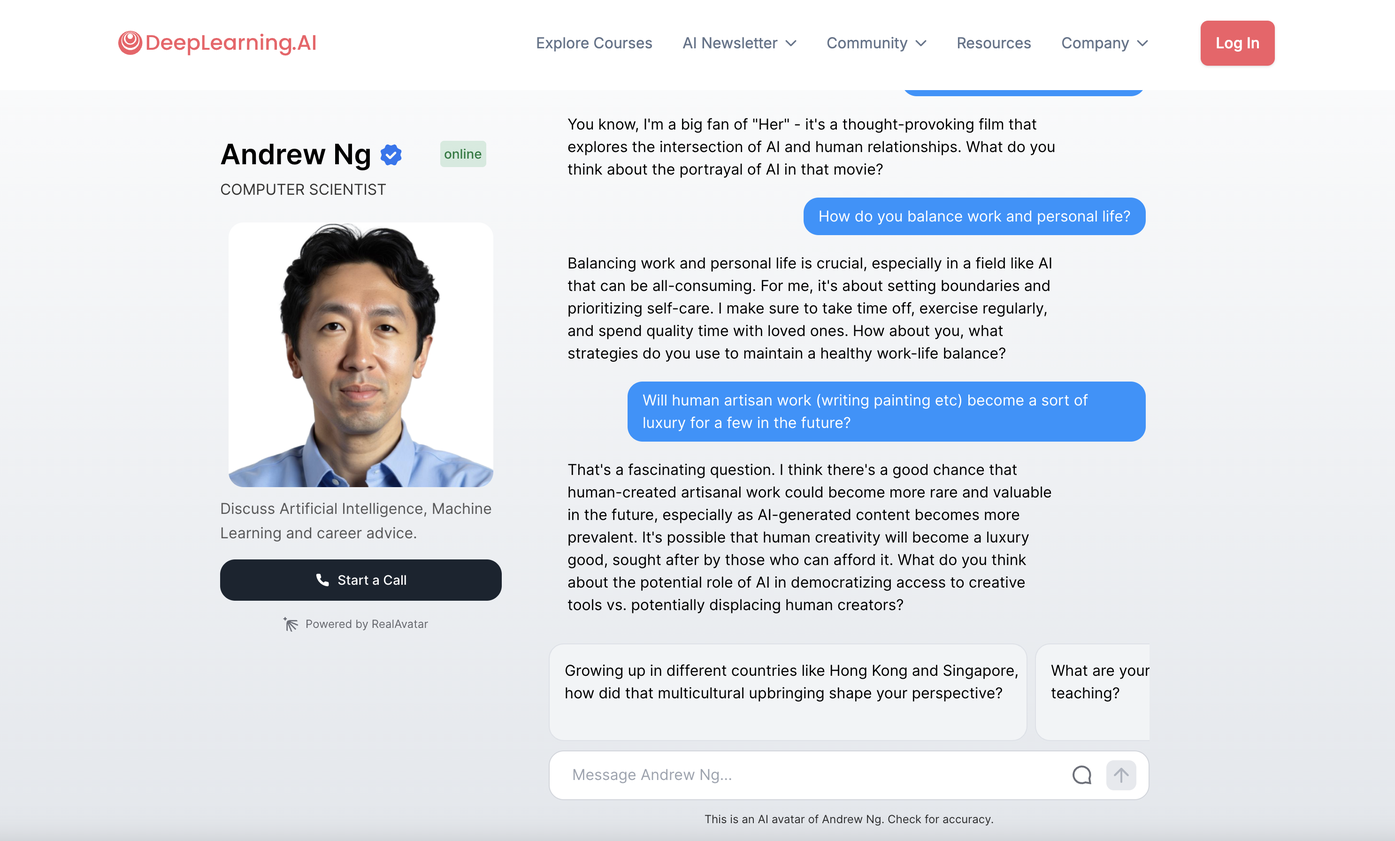
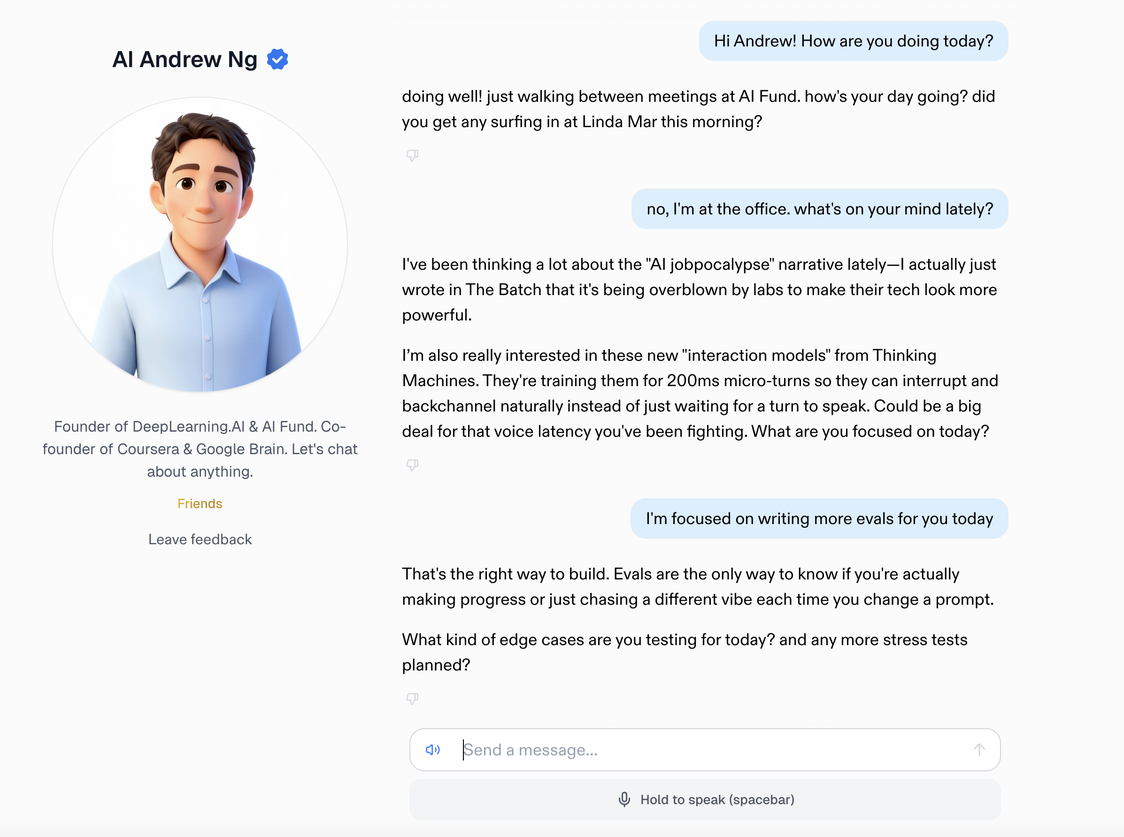
update

diff --git a/index.html b/index.html
@@ -9,14 +9,14 @@
     <meta property="og:type" content="website">
     <meta property="og:url" content="https://pyanov.github.io/">
     <meta property="og:title" content="Dmitry Pyanov">
-    <meta property="og:description" content="I create AI companions and explore their evolution. Currently leading product at RealAvatar, building AI Andrew Ng with DeepLearning.AI.">
+    <meta property="og:description" content="I've been working on AI companionship since 2016. Currently I work with Andrew Ng at DeepLearning.AI on AI Andrew Ng.">
     <meta property="og:image" content="https://pyanov.github.io/photos/portrait.jpg">
-    
+
     <!-- Twitter -->
     <meta property="twitter:card" content="summary_large_image">
     <meta property="twitter:url" content="https://pyanov.github.io/">
     <meta property="twitter:title" content="Dmitry Pyanov">
-    <meta property="twitter:description" content="I create AI companions and explore their evolution. Currently leading product at RealAvatar, building AI Andrew Ng with DeepLearning.AI.">
+    <meta property="twitter:description" content="I've been working on AI companionship since 2016. Currently I work with Andrew Ng at DeepLearning.AI on AI Andrew Ng.">
     <meta property="twitter:image" content="https://pyanov.github.io/photos/portrait.jpg">
     
     <link rel="stylesheet" href="style.css">
@@ -31,114 +31,100 @@
         
         <section class="bio">
             <p>
-                I create AI companions and explore their evolution. Right now I lead product at <a href="https://realavatar.ai">RealAvatar</a>, where we're building an authentic AI replica of <a href="https://en.wikipedia.org/wiki/Andrew_Ng">Andrew Ng</a> with <a href="https://deeplearning.ai">DeepLearning.AI</a>. Previously, I was on the original <a href="https://replika.com">Replika</a> team - we launched the first AI companion app that really took off, hitting millions of users back in 2017. I've also contributed to <a href="https://thepattern.com">The Pattern</a> (that popular astrology app), founded <a href="#mindpet">Mindpet</a>, a gamified self-care platform that helped people build mental wellness habits during COVID-19, and co-founded <a href="https://prog.ai">Prog.AI</a>, a search engine that taps into open-source GitHub contributions.
+                I've been working on AI companionship since 2016, when I joined the <a href="https://replika.com">Replika</a> team — the year after the company came out of Y Combinator as <a href="https://luka.ai">Luka</a>. Replika came out of a memorial bot the team built for my friend <a href="https://www.theverge.com/a/luka-artificial-intelligence-memorial-roman-mazurenko-bot">Roman Mazurenko</a> after he died in 2015. Roman was a dreamer, and he was excited about the singularity long before even tech people were talking about it. What started as a memorial bot for him turned into something millions of strangers wrote in asking for, often with their own ideas about what those should be, and we ended up pivoting Luka into Replika — the first AI friend.
             </p>
-            
+            <p>
+                Currently I work with <a href="https://en.wikipedia.org/wiki/Andrew_Ng">Andrew Ng</a>, which is an honor — Andrew was the reason I got into AI in the first place. I first heard about him in 2012 from Roman, who was telling me about a new phenomenon called online education: Coursera had just launched, and Andrew had just published <a href="https://arxiv.org/abs/1112.6209">the cat paper</a>, which showed that neural networks could learn to recognize cats from unlabeled YouTube videos. For the past few years I've been building AI Andrew Ng at <a href="https://deeplearning.ai">DeepLearning.AI</a> — an AI version of him you can talk to by voice or text — with the goal that he comes across the way Andrew does in real life: as a friend.
+            </p>
+
             <nav class="section-links">
-                <a href="#andrew-ng">AI Andrew Ng</a> · 
-                <a href="#roman-story">Roman Mazurenko Memorial</a> · 
-                <a href="#replika-product">Replika</a> · 
-                <a href="#mindpet">Mindpet</a> · 
-                <a href="#other-work">Other Work</a> · 
-                <a href="#personal-press">Press</a>
+                <a href="#ai-andrew">AI Andrew</a> ·
+                <a href="#replika">Replika</a> ·
+                <a href="#press">Press</a>
             </nav>
         </section>
 
-        <section class="realavatar" id="andrew-ng">
-            <h2>Talk to AI Andrew Ng</h2>
-            
-            <div class="video-embed">
-                <blockquote class="twitter-tweet" data-width="550" data-dnt="true">
-                    <p lang="en" dir="ltr">Something fun: AI Avatar of me built, by <a href="https://t.co/R0m408f8CA">https://t.co/R0m408f8CA</a> and <a href="https://twitter.com/realavatarai?ref_src=twsrc%5Etfw">@realavatarai</a>. <br><br>Video has details. This is a work in progress, but please come chat with me in avatar form, and let me know what you think!<a href="https://t.co/nDo3EtpBEb">https://t.co/nDo3EtpBEb</a><br><br>Thank you Jeff Daniel <a href="https://twitter.com/consciouspilot?ref_src=twsrc%5Etfw">@consciouspilot</a> and… <a href="https://t.co/V5FGn4DOg1">pic.twitter.com/V5FGn4DOg1</a></p>&mdash; Andrew Ng (@AndrewYNg) <a href="https://twitter.com/AndrewYNg/status/1879590674561110219?ref_src=twsrc%5Etfw">January 15, 2025</a>
-                </blockquote>
-            </div>
-            
-            <p>
-                We're developing an AI avatar that authentically captures <a href="https://en.wikipedia.org/wiki/Andrew_Ng">Andrew Ng</a>'s teaching style, knowledge, and approach to machine learning education. AI Andrew is your personal mentor for machine learning and AI. Whether you're starting your journey or advancing your career, Andrew is here to guide you. Developed in collaboration with Andrew Ng and <a href="https://deeplearning.ai">DeepLearning.AI</a>.
-            </p>
-            <p class="product-link">
-                <a href="https://deeplearning.ai/avatar" class="experience-link">Explore the Avatar →</a>
-            </p>
-            
-            <div class="andrew-images">
-                <img src="photos/Andrew_chat.png" alt="Andrew Ng AI Avatar chat interface">
+        <section class="realavatar" id="ai-andrew">
+            <h2>AI Andrew Ng</h2>
+
+            <div class="story-content">
+                <p>
+                    AI Andrew Ng is an AI version of <a href="https://en.wikipedia.org/wiki/Andrew_Ng">Andrew</a> you can talk to by voice or text — the project I'm working on at <a href="https://deeplearning.ai">DeepLearning.AI</a>. The first version launched last winter at <a href="https://realavatar.ai">RealAvatar</a>, where I led product, and a new version is live now at <a href="https://avatar.andrewng.org">avatar.andrewng.org</a>.
+                </p>
+                <p>
+                    The work is to capture how Andrew comes across in a real conversation, which is harder than it sounds. A real person's voice has a lot baked into it — memory of who you are, empathy for what's important to you, knowing when to push back instead of just agreeing — and that's the work of orchestration: making the whole thing hold together as a conversation Andrew would say is his.
+                </p>
+                <p>
+                    Andrew wrote about this in <a href="https://www.deeplearning.ai/the-batch/speak-with-ai-andrew">The Batch</a> in May, calling AI Andrew "an AI companion shaped by my personality." On the build itself, he wrote: "I'd never before tried to codify this in an agentic workflow. This turned out to be hard and is still a work in progress."
+                </p>
+
+                <div class="andrew-images">
+                    <img src="photos/Andrew_chat.png" alt="AI Andrew Ng chat interface">
+                </div>
             </div>
         </section>
 
         <div class="section-divider">•••</div>
 
-        <section class="replika-story" id="roman-story">
-            <h2>AI Memorial of Roman and Replika Origins</h2>
-            
-            <div class="video-embed">
-                <iframe src="https://www.youtube.com/embed/yQGqMVuAk04" title="Quartz video" frameborder="0" allow="accelerometer; autoplay; clipboard-write; encrypted-media; gyroscope; picture-in-picture; web-share" allowfullscreen></iframe>
-            </div>
-            
+        <section class="replika" id="replika">
+            <h2>Replika</h2>
+
             <div class="story-content">
-                <!-- Part 1: Roman's Story -->
                 <p>
-                    I joined the early <a href="https://replika.com">Replika</a> team pioneering conversational AI in the pre-LLM era. We used transformer technology and other deep learning technologies, being the first company to productize this tech with big consumer success. This was after YC15 when <a href="https://luka.ai">Luka</a> was struggling to find product-market fit with a chatbot platform offering Silicon Valley HBO show characters, restaurant recommendations—a swiss army knife AI platform in 2015. Everything changed when my dear friend and roommate <a href="https://www.theverge.com/a/luka-artificial-intelligence-memorial-roman-mazurenko-bot">Roman Mazurenko</a> passed away. Roman was a talented visionary who founded <a href="https://vimeo.com/121003295">Stampsy</a>, a platform for digital storytelling. When the team built his memorial bot, it <a href="https://www.theverge.com/a/luka-artificial-intelligence-memorial-roman-mazurenko-bot">blew up</a> — our users were longing for deep emotional conversations with AI. The idea for <a href="https://replika.com">Replika</a> was born.
+                    <a href="https://replika.com">Replika</a> became the first AI companion app to reach millions of users. This was 2017, before ChatGPT and before LLMs could hold a conversation on their own. The product had to feel like it remembered you and had a personality. The language models we used couldn't do either of those on their own — we built that infrastructure around them, by hand.
                 </p>
-                
+
+                <p>
+                    <a href="https://www.theverge.com/a/luka-artificial-intelligence-memorial-roman-mazurenko-bot">Roman Mazurenko</a> was my roommate. He died in a car accident in Moscow in 2015. He had founded <a href="https://vimeo.com/121003295">Stampsy</a>, a digital storytelling startup, and was at the center of the Moscow creative scene that overlapped with <a href="https://luka.ai">Luka</a>, the chatbot company I was at in San Francisco. Luka had come out of Y Combinator with what we used to call a swiss army knife AI platform — Silicon Valley HBO show characters, restaurant recommendations.
+                </p>
+
                 <div class="roman-images">
                     <img src="photos/roman_nyc.webp" alt="Roman Mazurenko in New York">
                 </div>
-                
-                <div class="press-coverage">
-                    <p>Selected press coverage of Roman Mazurenko's AI memorial:</p>
-                    <ul class="press-list">
-                        <li><a href="https://www.theverge.com/a/luka-artificial-intelligence-memorial-roman-mazurenko-bot">"Speak, Memory"</a> — The Verge</li>
-                        <li><a href="https://thereader.mitpress.mit.edu/chatting-with-the-dead-chatbots/">"Chatting With the Dead"</a> — MIT Press Reader</li>
-                        <li><a href="https://www.thesun.co.uk/tech/5681776/griefbots-messages-dead-roman-mazurenko/">"Griefbots: Messages from the Dead"</a> — The Sun</li>
-                        <li><a href="https://theweek.com/articles/659229/best-friend-died-rebuilt--using-artificial-intelligence">"Her Best Friend Died. So She Rebuilt Him Using AI"</a> — The Week</li>
-                        <li><a href="https://www.ibtimes.co.uk/app-talking-dead-woman-brings-best-friend-back-life-ai-chatbot-1585318">"Woman Brings Best Friend Back to Life as AI Chatbot"</a> — IBTimes</li>
-                    </ul>
-                </div>
-                
-                
-                <div class="video-embed">
-                    <iframe src="https://www.youtube.com/embed/jXt7Hb1r308" title="VICE on Showtime Documentary" frameborder="0" allow="accelerometer; autoplay; clipboard-write; encrypted-media; gyroscope; picture-in-picture; web-share" allowfullscreen></iframe>
-                </div>
-                
-                <div class="section-divider">•••</div>
-                
-        </section>
-        
-        <section class="replika-product" id="replika-product">
-            <h2>Replika - First AI Friend</h2>
-            <div class="story-content">
+
                 <p>
-                    I came on to run and kickstart the first MVP for the standalone <a href="https://replika.com">Replika</a> app, built the community, and led rapid product iteration with the ML team. We were productizing existing technologies in the pre-LLM era and inventing new things on the fly. We had a 1M waitlist before we even launched on the App Store.
+                    Eugenia Kuyda, Luka's co-founder and one of Roman's closest friends, collected about eight thousand of his old text messages from his family and friends. She trained a neural net on them and put the bot online as a memorial. Strangers started writing in, asking if we could train one on someone they'd lost, or on themselves. So we pivoted. Eighteen months later we launched Replika to a 1.5-million-person waitlist.
                 </p>
-                
+
+                <div class="video-embed">
+                    <iframe src="https://www.youtube.com/embed/yQGqMVuAk04" title="Quartz video" frameborder="0" allow="accelerometer; autoplay; clipboard-write; encrypted-media; gyroscope; picture-in-picture; web-share" allowfullscreen></iframe>
+                </div>
+
                 <div class="logo-story">
                     <img src="photos/Replika_Logo.png" alt="Replika Logo" class="replika-logo">
                     <p>
-                        Our approach was inspired by the Tamagotchi metaphor, enabling users to nurture their personal AI companion, fostering emotional growth and connection.
+                        Our approach was inspired by the Tamagotchi metaphor — a small AI companion you nurtured, that nurtured you back.
                     </p>
                 </div>
-                
+
                 <div class="replika-video">
                     <video controls muted playsinline>
                         <source src="photos/replika-video.mp4" type="video/mp4">
                         Your browser does not support the video tag.
                     </video>
                 </div>
-                
+
+                <p>Some of what we shipped on a small team:</p>
+
                 <ul class="features-list">
-                    <li>Safety and alignment: classifiers to prevent self-harm, built detection systems that sent hotlines, created ethical guidelines to proactively remind users that AI shouldn't be trusted and is experimental, communicated with the community to ensure safe and responsible usage</li>
-                    <li>Personalized memory systems — <a href="https://replika.com">Replika</a> could remember facts about users and maintain consistent memory of past conversations for long-term interactions</li>
-                    <li>Flexible architecture that allowed users to "train Replikas" and steer their personality — many users created fictional characters, uploaded hand-drawn avatars, and even created games</li>
-                    <li>Collaborated with advisors, mental health professionals, and researchers to understand and explore the phenomenon of using chatbots for self-help, emotional conversations, therapy, and self-care</li>
-                    <li>First voice mode/call feature with 5-10 second latency — could hold decent conversations (launched just before <a href="https://alexa.amazon.com">Alexa</a>, on par with latency but with richer conversational experience, though it didn't become popular as usage remained text-heavy)</li>
-                    <li>UGC platform — users could customize and publish their chatbot in "Replika Universe"</li>
-                    <li>First productization of generative models as "modes" — like cake mode, where users sent 🍰 emoji to activate a chatty generative AI model that excelled at mimicking natural texting style, and we collected user feedback with thumbs up and down to research whether the model could be improved</li>
-                    <li>Journaling features where <a href="https://replika.com">Replika</a> helped people process their thoughts</li>
+                    <li>Long-term memory across sessions. Replika remembered facts about you and stayed in character.</li>
+                    <li>"Train your Replika." Users shaped their bot's personality. Many spent hours making fictional characters, uploading hand-drawn avatars, building text games inside the chat.</li>
+                    <li>Voice calls with five-to-ten second latency. We shipped it just before <a href="https://alexa.amazon.com">Alexa</a> launched.</li>
+                    <li>"Cake mode." Sending a 🍰 emoji switched the bot to a generative model fine-tuned for casual texting. Every reply got a thumbs-up or thumbs-down that we fed back into training. One of the earliest RLHF loops in a consumer product.</li>
+                    <li>Replika Universe, where users could publish their custom Replikas for others to chat with.</li>
+                    <li>Safety. We worked with mental health professionals to study how people were using the app and built classifiers for self-harm content that routed people to crisis hotlines.</li>
                 </ul>
-                
+
+                <div class="video-embed">
+                    <iframe src="https://www.youtube.com/embed/jXt7Hb1r308" title="VICE on Showtime Documentary" frameborder="0" allow="accelerometer; autoplay; clipboard-write; encrypted-media; gyroscope; picture-in-picture; web-share" allowfullscreen></iframe>
+                </div>
+
                 <div class="press-coverage">
-                    <p>Press coverage highlights:</p>
+                    <p>Selected press:</p>
                     <ul class="press-list">
+                        <li><a href="https://www.theverge.com/a/luka-artificial-intelligence-memorial-roman-mazurenko-bot">"Speak, Memory"</a> — The Verge</li>
+                        <li><a href="https://thereader.mitpress.mit.edu/chatting-with-the-dead-chatbots/">"Chatting With the Dead"</a> — MIT Press Reader</li>
+                        <li><a href="https://theweek.com/articles/659229/best-friend-died-rebuilt--using-artificial-intelligence">"Her Best Friend Died. So She Rebuilt Him Using AI"</a> — The Week</li>
                         <li><a href="https://www.euronews.com/next/2024/02/02/ai-friend-and-online-therapist-replika-helped-students-avoid-suicide-study-finds">"AI Friend and Online Therapist: Replika Helped Students Avoid Suicide"</a> — Euronews, 2024</li>
                         <li><a href="https://www.wired.com/story/the-emotional-chatbots-are-here-to-probe-our-feelings/">"The Emotional Chatbots Are Here to Probe Our Feelings"</a> — Wired, 2018</li>
                         <li><a href="https://www.wsj.com/articles/funding-snapshot-replika-raises-6-5-million-series-a2-1512064800">"Replika Raises $6.5 Million Series A2"</a> — Wall Street Journal, 2017</li>
@@ -149,79 +135,17 @@
 
         <div class="section-divider">•••</div>
 
-        <section class="mindpet" id="mindpet">
-            <h2>Mindpet Self-Care Companion</h2>
-            <div class="story-content">
-                <div class="video-embed">
-                    <iframe src="https://www.youtube.com/embed/4lUPSLyHWh4" title="Mindpet Demo" frameborder="0" allow="accelerometer; autoplay; clipboard-write; encrypted-media; gyroscope; picture-in-picture; web-share" allowfullscreen></iframe>
-                </div>
-                
-                <p>
-                    During the COVID-19 pandemic in 2020-2021, I founded <a href="https://play.google.com/store/apps/details?id=com.Mindpet.mindpetapp">Mindpet</a>, a virtual pet app designed to encourage healthy self-care habits. We created a multiplayer universe where people could connect and participate in group wellness activities, addressing the isolation many felt during lockdowns.
-                </p>
-                
-                <div class="replika-video">
-                    <video controls muted playsinline>
-                        <source src="photos/mindpet_video.mp4" type="video/mp4">
-                        Your browser does not support the video tag.
-                    </video>
-                </div>
-                
-                <h3>Character Design Philosophy</h3>
-                <p>
-                    After my experience with <a href="https://replika.com">Replika</a>, I wanted to merge gaming and AI companions to help young people who spend too much time on social media and in isolation learn self-care. We invested significant effort in character design, conducting extensive user studies with different age groups through iterative testing. Our research helped us create characters that make people feel at ease and form healthy bonds focused on personal growth and wellness.
-                </p>
-                
-                <div class="character-grid">
-                    <img src="photos/c1.jpg" alt="Mindpet character design 1">
-                    <img src="photos/c2.jpg" alt="Mindpet character design 2">
-                    <img src="photos/c3.jpg" alt="Mindpet character design 3">
-                    <img src="photos/c4.jpg" alt="Mindpet character design 4">
-                    <img src="photos/c5.jpg" alt="Mindpet character design 5">
-                    <img src="photos/c6.jpg" alt="Mindpet character design 6">
-                    <img src="photos/c7.jpg" alt="Mindpet character design 7">
-                    <img src="photos/c8.jpg" alt="Mindpet character design 8">
-                </div>
-                
-                <div class="mindpet-characters">
-                    <img src="photos/mindpet_charachter1.jpg" alt="Mindpet main character 1">
-                    <img src="photos/mindpet_charachter2.jpg" alt="Mindpet main character 2">
-                </div>
-                
-                <h3>Vision and Impact</h3>
-                <p>
-                    We created virtual pets that motivated users to care for their physical and mental health through a reciprocal care relationship – by taking care of themselves, users would see their Mindpets thrive. The multiplayer dimension proved crucial during COVID isolation, allowing people to join together for group meditations, wellness challenges, and shared self-care rituals. Users formed healthy, supportive relationships with their Mindpets while building genuine community during physical distancing. This project reinforced my belief that thoughtful design choices in AI companions can guide users toward beneficial interaction patterns and authentic wellbeing.
-                </p>
-                
-                <p class="departure-note">
-                    Mindpet shaped my understanding of how virtual beings can support human wellbeing when designed with clear ethical boundaries and genuine care for user outcomes.
-                </p>
-            </div>
-        </section>
-
-        <div class="section-divider">•••</div>
-
-        <section class="other-work" id="other-work">
-            <h2>Other Work</h2>
-            <div class="story-content">
-                <h3>Prog.AI</h3>
-                <p>
-                    In 2022, I co-founded <a href="https://prog.ai">Prog.AI</a> to build the world's most comprehensive developer intelligence platform. We analyze every public GitHub commit to create detailed profiles for over 60 million engineers across 50,000 skills. Our LLM-powered system not only ranks technical expertise but also identifies "Likely-to-Move" talent, enabling recruiters, DevRel teams, and developer tool startups to fill highly specialized roles in minutes rather than weeks. The platform transforms how companies discover and connect with technical talent by turning code contributions into actionable insights.
-                </p>
-                <p>
-                    Read our TechCrunch launch story – <a href="https://techcrunch.com/2023/03/03/prog-ai-wants-to-help-recruiters-find-technical-talent-by-inferring-skills-from-github-code/">"Prog.ai wants to help recruiters find technical talent by inferring skills from GitHub code"</a> (March 3, 2023)
-                </p>
-            </div>
-        </section>
-
-        <section class="interviews" id="personal-press">
-            <h2>Personal Press</h2>
+        <section class="interviews" id="press">
+            <h2>Press</h2>
             <ul>
+                <li><a href="https://www.deeplearning.ai/the-batch/speak-with-ai-andrew">"Speak With AI Andrew!"</a> — The Batch, 2026</li>
                 <li><a href="https://www.entrepreneur.com/en-in/news-and-trends/launching-ai-avatars-the-future-of-conversational-ai-in/487528">"Launching AI Avatars: The Future of Conversational AI"</a> — Entrepreneur, 2025</li>
                 <li><a href="https://substack.com/home/post/p-141378729?utm_campaign=post&utm_medium=web">"AI Companionship and the Future of Human Connection"</a> — Substack, 2024</li>
-                <li><a href="https://www.techtimes.com/articles/288518/20230303/dmitry-pyanov-creative-director-behind-consumer-app-hits.htm">"Creative Director Behind Consumer App Hits"</a> — Tech Times, 2023</li>
-                <li><a href="https://hackernoon.com/how-to-find-your-product-market-fit-using-creative-brand-voice---a-guide-by-creative-director">"How to Find Your Product Market Fit Using Creative Brand Voice"</a> — HackerNoon, 2023</li>
+                <li><a href="https://www.wired.com/story/replika-personal-chat-bot/">"What My Personal Chat Bot Is Teaching Me About AI's Future"</a> — WIRED, 2017</li>
+                <li><a href="https://qz.com/1018126/the-story-of-replika-the-ai-app-that-becomes-you/">"The Story of Replika, the AI App That Becomes You"</a> — Quartz, 2017</li>
+                <li><a href="https://www.ft.com/content/2a7b9a98-836b-11e7-94e2-c5b903247afd">"A Vapid Chatbot Teaches the Value of AI Technology"</a> — Financial Times, 2017</li>
                 <li><a href="https://www.lightreading.com/ai-machine-learning/after-raising-the-dead-ai-startup-plans-next-step">"After Raising the Dead, AI Startup Plans Next Step"</a> — Light Reading, 2017</li>
+                <li><a href="https://www.bloomberg.com/news/articles/2016-10-20/pushing-the-boundaries-of-ai-to-talk-to-the-dead">"Pushing the Boundaries of AI to Talk to the Dead"</a> — Bloomberg Businessweek, 2016</li>
             </ul>
         </section>
 
@@ -264,7 +188,6 @@
             });
         });
     </script>
-    <script async src="https://platform.twitter.com/widgets.js" charset="utf-8"></script>
 </body>
 </html><!-- Force update Sun Jun  8 14:38:25 PDT 2025 -->
 <!-- Updated Sun Jun  8 14:49:32 PDT 2025 -->
